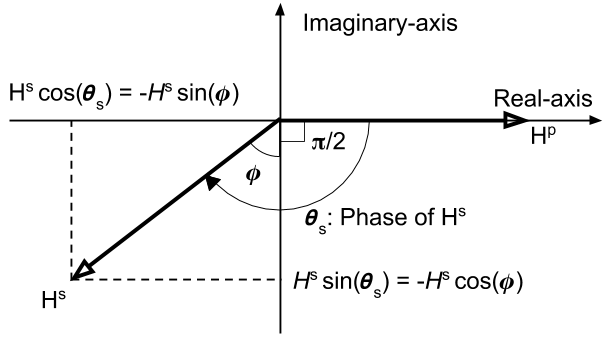
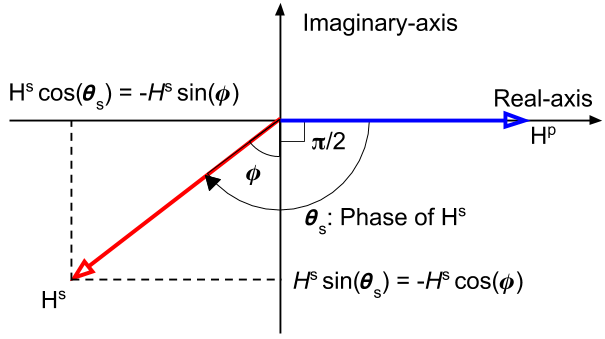
Working on Lindey's review

diff --git a/content/maxwell3_fdem/emi_tutorial/amplitudeandphase.rst b/content/maxwell3_fdem/emi_tutorial/amplitudeandphase.rst
@@ -3,6 +3,9 @@
 Amplitude and phase
 ===================
 
+.. todo::
+	Add purpose statement, and illustrate how we derive!!
+
 .. figure:: ./images/Concepts_3loops_only_K.png
    :align: center
    :scale: 60%
@@ -15,20 +18,23 @@ Based upon the induced current in the body (Loop2), in :ref:`induced_currents_bo
 .. math::
 	H^p_2(t) = K_{12} i^p(t),
 
-where :math:`i^p = I^p cos(\omega t)` and :math:`K_{12}` is coefficint depending on the geomtry of the system, the area, and number of turns of the primary coil, and attenuation of the wave between Loop1 and Loop2.
+where :math:`i^p = I^p cos(\omega t)` and :math:`K_{12}` is coefficient depending on the geometry of the system, the area, and number of turns of the primary coil, and attenuation of the wave between Loop1 and Loop2.
 
 Effectively, through Faraday's law, :math:`\mathcal{E} = -\imath \omega \Phi^p`, volatage will be generated, which generates induced currents (this has been done in :ref:`induced_currents_body`):
 
 .. math::
     I(\omega) = \frac{-\imath \alpha}{1+\imath\alpha}\frac{\Phi^p}{L},
 
-where :math:`\alpha=\frac{\omega L}{R}`. EMF induced here can be written as
+where :math:`\alpha=\frac{\omega L}{R}`. The EMF induced here can be written as
 
 .. math::
 	\mathcal{E} = -M\frac{d i^p}{dt} = -M \imath \omega I^p = -M \imath \omega \frac{H^p_2}{K_{12}},
 	:label: EMF
 
 where :math:`M` is mutual inductance, and this property illustrates how much voltage induced in Loop2 due to time varying current in Loop1. This yields :math:`\Phi^p = \frac{\mathcal{E}}{-\imath \omega} = M\frac{H^p_2}{K_{12}}`. The secondary magnetic field, :math:`H_s` at the Rx (Loop3) due to this current will be
+
+.. todo::
+	Elaborate description on M
 
 .. math::
 	H^s =K_{23} I(\omega)
@@ -67,7 +73,7 @@ where :math:`A = \frac{K_{23}M}{K_{13}L}` and response function, :math:`Q = \fra
 	Because the ratio :math:`\frac{K_{23}M}{K_{13}L}` is generally very small, the ratio :math:`\frac{H^s}{H^{p}_3}` is small, regardless of the value of :math:`\alpha`. Often part per million (ppm) is used for the unit of this ratio.
 
 
-Phase of :math:`\frac{H^s}{H^p}`, :math:`\theta_s` will be same as that of :math:`I(\omega)`, hence
+The phase of :math:`\frac{H^s}{H^p}`, :math:`\theta_s` will be same as that of :math:`I(\omega)`, hence
 
 .. math::
 	\theta_s = - \frac{\pi}{2} - \phi,
@@ -86,15 +92,20 @@ where
 
    Phase diagram of secondary magnetic field (:math:`H^s`).
 
+.. todo::
+	make the arrows showing the primary and secondary magnetic field blue and red (same as your diagrams showing field lines
 
 From above diagram and Eq. :eq:`phaseHs_phi`, it can be seen that:
 
 .. note::
-	- For a very good conductor: :math:`\alpha = \frac{\omega L}{R} \rightarrow \infty` and :math:`\phi \rightarrow \frac{\pi}{2}`. In this case, phase of the secondary field is 180 degree (:math:`\pi`) behind the primary field
+	- For a very good conductor: :math:`\alpha = \frac{\omega L}{R} \rightarrow \infty` and :math:`\phi \rightarrow \frac{\pi}{2}`. In this case, phase of the secondary field is 180 :math:`^\circ` (:math:`\pi`) behind the primary field
 
-	- For a very poor conductor: :math:`\alpha = \frac{\omega L}{R} \rightarrow 0` and :math:`\phi \rightarrow 0`.  In this case, phase of the secondary field is 90 degree (:math:`\frac{\pi}{2}`) behind the primary field
+	- For a very poor conductor: :math:`\alpha = \frac{\omega L}{R} \rightarrow 0` and :math:`\phi \rightarrow 0`.  In this case, phase of the secondary field is 90 :math:`^\circ` (:math:`\frac{\pi}{2}`) behind the primary field
 
 Assuming the phase of the primary magnetic field, :math:`\theta_p=0`, its phase lag, :math:`\psi`, can be written as
+
+.. todo::
+	a quick diagram to show one sinusoid lagging the primary
 
 .. math::
 	\psi = \theta_p - \theta_s =\frac{\pi}{2} + \phi,
@@ -107,17 +118,18 @@ The lag in the phase of :math:`\frac{\pi}{2}` is due to the inductive coupling b
 
 	    = K_{23}|I(\omega)| sin (\omega t - \phi)
 
-	    = K_{23}|I(\omega)| [cos (\omega t-\frac{\pi}{2}) cos (\phi) + cos (\omega t-\pi) sin (\phi)]
+	    = K_{23}|I(\omega)| \right(
+	    cos (\omega t-\frac{\pi}{2}) cos (\phi) + cos (\omega t-\pi) sin (\phi) \left)
 
-The component of :math:`H^s` 180 degree out of phase with :math:`H^p` is :math:`H^s sin(\phi)`, whereas the component 90 degree out-ouf-phase is :math:`H^s cos(\phi)`.
+The component of :math:`H^s` 180 :math:`^\circ` out of phase with :math:`H^p` is :math:`H^s sin(\phi)`, whereas the component 90 :math:`^\circ` out-ouf-phase is :math:`H^s cos(\phi)`.
 
 In loop-loop frequency domain EM survey,
 
 .. note::
 
-	- the 180 degree out-of-phase fraction of :math:`H^s` is called the real or in-phase component.
+	- the 180 :math:`^\circ` out-of-phase fraction of :math:`H^s` is called the **real** or **in-phase ** component.
 
-	- the 90 degree out-of-phase fraction of :math:`H^s` is called the imaginary, out-of-phase, or quadrature component.
+	- the 90 :math:`^\circ` out-of-phase fraction of :math:`H^s` is called the **imaginary**, **out-of-phase**, or quadrature component.
 
 
 

diff --git a/content/maxwell3_fdem/emi_tutorial/induced_currents_body.rst b/content/maxwell3_fdem/emi_tutorial/induced_currents_body.rst
@@ -3,6 +3,9 @@
 Induced currents in the body
 ============================
 
+.. topic:: Purpose
+  XXX
+
 Consider a simple equivalent circuit as shown in :numref:`Concepts_3loops_only`.
 
 .. figure:: ./images/Concepts_3loops_only.png
@@ -12,7 +15,9 @@ Consider a simple equivalent circuit as shown in :numref:`Concepts_3loops_only`.
 
    Conceptual diagram for 3-loops system.
 
-Through the Tx (Loop1) we flow time-varying currents, then it generates time varying magnetic flux, which will exite the body (Loop2). Let :math:`\Phi^{p}` be the primary magnetic flux from the Tx. The body treats like and R-L circuilt.
+
+A time-varying current is put through the Tx (loop 1), which then generates a time varying magnetic flux (primary magnetic flux), which we denote :math:`\Phi^{p}`. If coupled, this will induce currents in the body (Loop2) according to :ref:`Lenz's Law<lenz_law>`. We can examine the nature of the induced current by treating the loop as a Resistor-
+Inductor (RL) circuit.
 
 .. figure:: ./images/RLcircuit.png
    :align: right
@@ -21,7 +26,7 @@ Through the Tx (Loop1) we flow time-varying currents, then it generates time var
 
    Conceptual diagram of RL circuit.
 
-Electrical impedance of the RL circuit can be written as
+The electrical impedance of the RL circuit can be written as
 
 .. math::
     Z(\omega) = R + \imath \omega L,
@@ -32,7 +37,7 @@ Using Ohm's law we obtain
 .. math::
     V(\omega) = I(\omega) Z(\omega).
 
-Voltage, can be expressed using :math:`\Phi^{p}` as
+Voltage can be expressed using :math:`\Phi^{p}` as
 
 .. math::
     V = \mathcal{E} = -\frac{\partial \Phi^p}{\partial t} = -\imath \omega \Phi^p
@@ -81,7 +86,7 @@ Consider complex response function, :math:`Q` as
 .. note::
     For low frequencies the response is in the imaginary part, for high frequencies it will be in the real part.
 
-Phase of the current, :math:`\theta_I` can be written as
+The phase of the current, :math:`\theta_I` can be written as
 
 .. math::
     \theta_I = \theta_V - \theta_Z = -\frac{\pi}{2} - tan^{-1}\Big(\frac{\omega L}{R}\Big),
@@ -91,4 +96,4 @@ where :math:`\theta_z=\Re[z] / \Im[z]` and :math:`\Re[z]` and :math:`\Im[z]` are
 
 Considering Faraday's law: :math:`V = -\imath\omega\Phi^p`, then recoginze factor of :math:`-\imath\omega`, which makes :math:`\frac{\pi}{2}` lag of phase in the induced current. And :math:`tan^{-1}(\frac{\omega L}{R})` lag of phase is induced by the Loop2.
 
-So the phase of the current vary with frequency. At low frequencies the information about the conductor is in the quadarature (imaginary part) portion, at high freuquencies it is in out-of-phase (real part) portion.
+So the phase of the current vary with frequency. At low frequencies the information about the conductor is in the quadrature (imaginary part) portion, at high frequencies it is in out-of-phase (real part) portion.

diff --git a/content/maxwell3_fdem/emi_tutorial/index.rst b/content/maxwell3_fdem/emi_tutorial/index.rst
@@ -3,13 +3,20 @@
 EM induction tutorial
 =====================
 
+.. topic:: Purpose
+  Using an equivalent circuit model of three-loop system, we understand funamental principles of electromagnetic induction. This will include three main items:
+
+    - Equivalent circuit model for 3-loop system
+    - Inductive response function
+    - Coupling
+
 The fundamental principles of electromagnetic (EM) induction can be understood with a simple geometry involving three elements each represented by a loop of conducting wire as shown in :numref:`Concepts_3loops`.
 
-- Loop1: is the transmitter. It carries a current that produces an associated magnetic field. This magnetic field is called the primary field. For induction experiments the current in the transmitter varies with time and hence the magnetic field varies with time.
+- Loop1: is the transmitter (Tx). It carries a current that produces an associated magnetic field. This magnetic field is called the primary field. For induction experiments the current in the transmitter varies with time and hence the magnetic field varies with time.
 
 - Loop2: represents a conductive body. The  time varying magnetic field generates an  Electromotive Force (EMF) and hence a current in the conductor. These are called secondary currents. The generate secondary magnetic fields.
 
-- Loop3: is the receiver: This measures magnetic field which consists of the sum of the primary and secondary fields.
+- Loop3: is the receiver (Rx): This measures **total** magnetic field which consists of the sum of the primary and secondary fields.
 
 .. figure:: ./images/Concepts_3loops.png
    :align: center
@@ -19,7 +26,7 @@ The fundamental principles of electromagnetic (EM) induction can be understood w
    Conceptual diagrams for EM inductions. Top panel shows excitation of the conductor using induction, and botton panel shows corresponding 3-loops system.
 
 .. note::
-	Geophysical goal: remove the primary field from the measurements and interpret the data to find information about the buried conductor.
+	Geophysical goal: remove the primary field from the measurements and interpret the data to find geometric information about the buried conductor.
 
 Goals for this tutorial:
 
@@ -28,7 +35,7 @@ Goals for this tutorial:
 	- Introduce self- and mutual inductances
 	- Illustrate the concept of “coupling”
 	- Provide the final expression which encapsulated both coupling and induction responses.
-	- Provide an interactive notebook in which the above goals can be crystallized. (350)
+	- Provide an interactive widgets in which the above goals can be crystallized.
 
 **Contents:**
 
